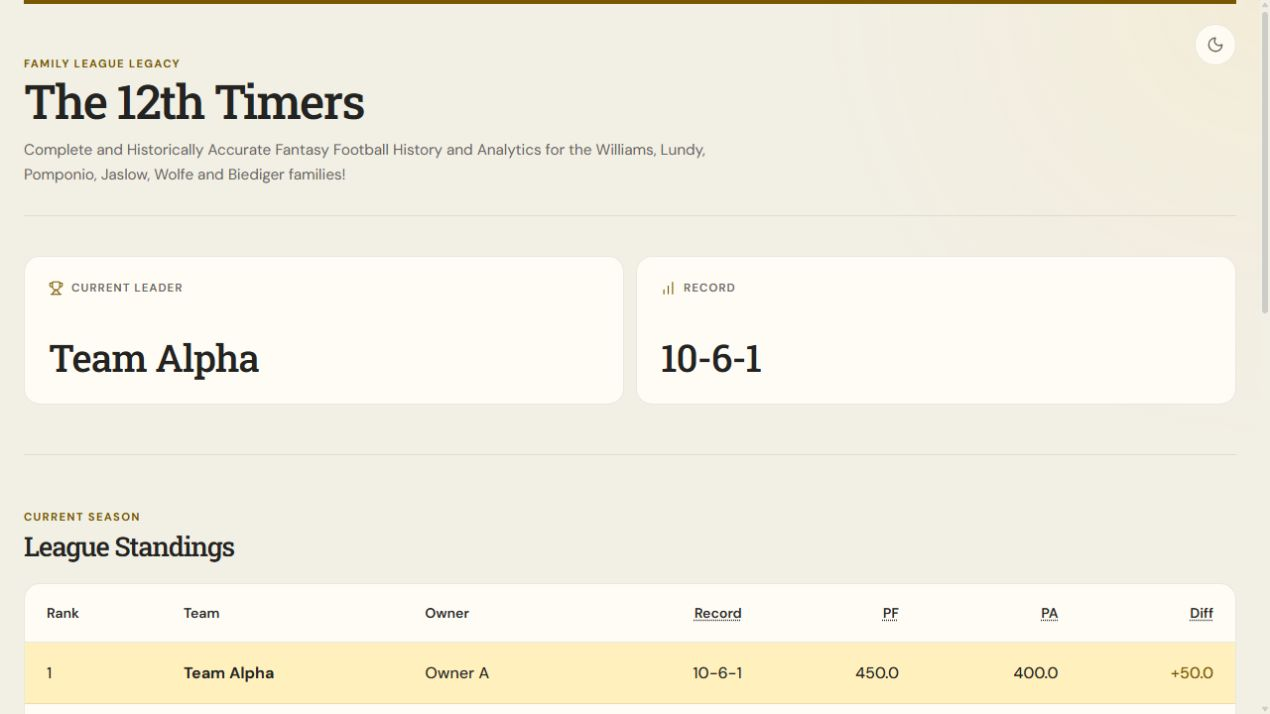
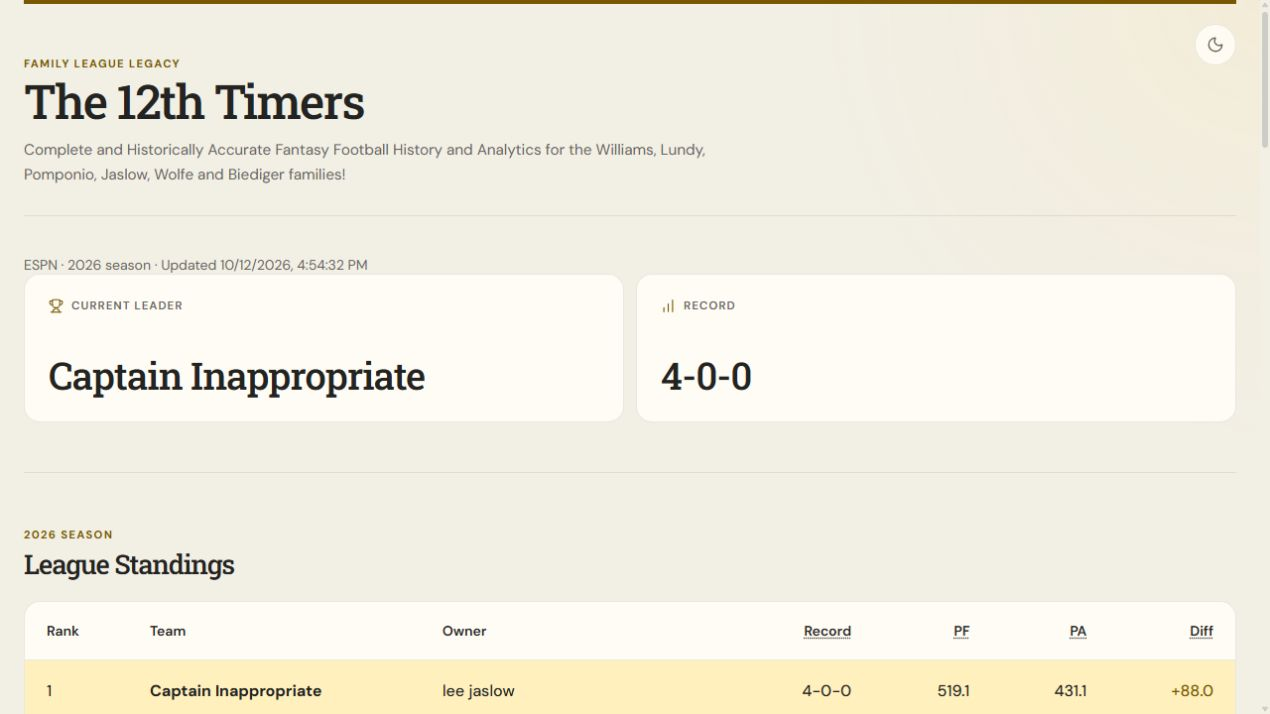
Updated case studies, ESPN details, branding and headline, also verified contact-form delivery

diff --git a/index.html b/index.html
@@ -3,8 +3,25 @@
 <head>
   <meta charset="UTF-8">
   <meta name="viewport" content="width=device-width, initial-scale=1">
-  <meta name="description" content="Matt Williams — senior software engineer with a design background, building thoughtful interfaces and dependable full-stack applications.">
-  <title>MJW | Senior Software Engineer</title>
+  <meta name="description" content="Senior software engineer with 7+ years of experience building Angular and TypeScript interfaces, Java services, and React applications. Thoughtful design. Dependable engineering.">
+  <title>Matt Williams | Senior Software Engineer</title>
+  <link rel="canonical" href="https://mattwills09.github.io/">
+  <meta property="og:type" content="website">
+  <meta property="og:site_name" content="Matt Williams — Software Engineer">
+  <meta property="og:title" content="Matt Williams | Senior Software Engineer">
+  <meta property="og:description" content="Senior software engineer with 7+ years of experience building Angular and TypeScript interfaces, Java services, and React applications. Thoughtful design. Dependable engineering.">
+  <meta property="og:url" content="https://mattwills09.github.io/">
+  <meta property="og:image" content="https://mattwills09.github.io/assets/images/portfolio-social-card.png">
+  <meta property="og:image:type" content="image/png">
+  <meta property="og:image:width" content="1200">
+  <meta property="og:image:height" content="630">
+  <meta property="og:image:alt" content="Matt Williams. Thoughtful design. Dependable engineering. Senior Software Engineer.">
+  <meta name="twitter:card" content="summary_large_image">
+  <meta name="twitter:title" content="Matt Williams | Senior Software Engineer">
+  <meta name="twitter:description" content="Senior software engineer with 7+ years of experience building Angular and TypeScript interfaces, Java services, and React applications. Thoughtful design. Dependable engineering.">
+  <meta name="twitter:image" content="https://mattwills09.github.io/assets/images/portfolio-social-card.png">
+  <meta name="twitter:image:alt" content="Matt Williams. Thoughtful design. Dependable engineering. Senior Software Engineer.">
+  <meta name="theme-color" content="#101c20">
   <link rel="icon" type="image/svg+xml" href="assets/images/monogram.svg">
   <link rel="stylesheet" href="assets/css/style.css">
   <script src="assets/js/script.js" defer></script>
@@ -25,12 +42,12 @@
     <section class="hero">
       <div class="hero-copy">
         <p class="eyebrow">Senior Software Engineer · Design background</p>
-        <h1>Thoughtful interfaces.<br><em>Dependable software.</em></h1>
-        <p class="intro">Senior Software Engineering with 7+ years of production experience, deep Angular and TypeScript expertise, and a background in design. Turning complex or loosely defined requirements into intuitive interfaces and end-to-end solutions, with current React development deployed on Vercel.</p>
+        <h1>Thoughtful design.<br><em>Dependable engineering.</em></h1>
+        <p class="intro">Senior software engineer with 7+ years of production experience, deep Angular and TypeScript expertise, and a background in design. Turning complex or loosely defined requirements into intuitive interfaces and end-to-end solutions, with current React and server-side API development deployed on Vercel.</p>
         <div class="actions"><a class="button" href="portfolio.html">Explore selected work <span aria-hidden="true">↗</span></a><a class="button button-secondary" href="assets/documents/Matthew_Williams_FullStack_Resume.pdf" download>Download résumé <span aria-hidden="true">↓</span></a><a class="text-link" href="contact.html">Let's connect</a></div>
         <aside id="hood-interface" class="hood-note" hidden><h2>Interface decisions</h2><p>Serif headings add character; sans-serif text keeps longer passages readable. Shared color tokens keep the palette consistent. The wallpaper is a decorative CSS layer, so it stays separate from content and controls. Its movement is disabled for reduced-motion preferences and touch-first devices.</p></aside>
       </div>
-      <figure class="portrait"><img src="assets/images/matthew-williams-headshot.png" alt="Matthew Williams" width="1122" height="1402"><figcaption>Engineering with a design perspective.</figcaption></figure>
+      <figure class="portrait"><img src="assets/images/matt-williams-headshot-800.webp" srcset="assets/images/matt-williams-headshot-400.webp 400w, assets/images/matt-williams-headshot-800.webp 800w" sizes="(max-width: 600px) 230px, (max-width: 900px) 30vw, 360px" fetchpriority="high" decoding="async" alt="Matt Williams" width="1122" height="1402"><figcaption>Engineering with a design perspective.</figcaption></figure>
     </section>
     <section class="section testimonial" aria-label="Professional recommendation">
       <p class="eyebrow">A perspective from the team</p>
@@ -40,7 +57,7 @@
     <section class="section" aria-labelledby="experience-title">
       <div class="section-heading"><p class="eyebrow">Experience &amp; independent development</p><h2 id="experience-title">From interface to production.</h2></div>
       <div class="experience-grid">
-        <div><h3>Safely · Software Engineer</h3><p class="experience-period">January 2023 – August 2026 · Remote</p><p>Built customer- and internal-facing Angular/TypeScript applications, expanding from frontend UI/UX into full-stack engineering. Delivered APIs, integrations, and event-driven Java 17/Spring Boot services with Kafka, SQL, and MongoDB.</p><p>Designed and engineered a standalone travel insurance SDK and demo booking application integrated with Safely's external APIs. Production work also included CircleCI, Kubernetes, and ArgoCD delivery, plus troubleshooting across application and infrastructure layers with Grafana and Loki.</p><h3 class="independent-experience">EMS Merchant Services · Software Developer</h3><p class="experience-period">September 2019 – January 2023</p><p>Built and maintained Angular/TypeScript point-of-sale applications and a merchant portal supporting 300–400 client locations. Work spanned inventory and operational management, Azure/.NET and MySQL integrations, testing, and ongoing production support.</p><h3 class="independent-experience">React development with Family League Legacy</h3><p>A current independent project built with React, TypeScript, and Vite, deployed on Vercel. Work includes typed league models, derived statistics, accessible interactions, and responsive light and dark themes.</p><p>Supabase and PostgreSQL are planned for league-data persistence in a future milestone.</p><p class="private-note">Professional source code lives in private company repositories. The public Safely demo and independent projects offer examples to explore.</p></div>
+        <div><h3>Safely · Software Engineer</h3><p class="experience-period">January 2023 – August 2026 · Remote</p><p>Built customer- and internal-facing Angular/TypeScript applications, expanding from frontend UI/UX into full-stack engineering. Delivered APIs, integrations, and event-driven Java 17/Spring Boot services with Kafka, SQL, and MongoDB.</p><p>Designed and engineered a standalone travel insurance SDK and demo booking application integrated with Safely's external APIs. Production work also included CircleCI, Kubernetes, and ArgoCD delivery, plus troubleshooting across application and infrastructure layers with Grafana and Loki.</p><h3 class="independent-experience">EMS Merchant Services · Software Developer</h3><p class="experience-period">September 2019 – January 2023</p><p>Built and maintained Angular/TypeScript point-of-sale applications and a merchant portal supporting 300–400 client locations. Work spanned inventory and operational management, Azure/.NET and MySQL integrations, testing, and ongoing production support.</p><h3 class="independent-experience">React development with Family League Legacy</h3><p>A current independent project built with React, TypeScript, and Vite, deployed on Vercel. Connects a live ESPN league through a server-side adapter that keeps credentials private. Includes typed league models, sortable standings, automated API and sorting tests, and responsive light and dark themes.</p><p>Supabase and PostgreSQL are planned for league-data persistence in a future milestone.</p><p class="private-note">Professional source code lives in private company repositories. The public Safely demo and independent projects offer examples to explore.</p></div>
         <div class="capabilities">
           <div><span class="eyebrow">Frontend</span><p>Angular · Angular Material · TypeScript · JavaScript<br>React · HTML/CSS · Bootstrap</p></div>
           <div><span class="eyebrow">Backend &amp; data</span><p>Java · Spring Boot · REST APIs · Kafka<br>Node.js · Express · SQL · MySQL · MongoDB · Azure/.NET</p></div>
@@ -55,13 +72,13 @@
       <div class="section-heading heading-row"><div><p class="eyebrow">Selected work</p><h2 id="selected-title">Something you can explore.</h2></div><a class="text-link" href="portfolio.html">View project details <span aria-hidden="true">↗</span></a></div>
       <div class="project-grid">
         <article class="project-card"><p class="eyebrow">Professional work · Public demo</p><h3>Safely SDK demo</h3><figure class="project-preview"><div class="preview-chrome" aria-hidden="true"><span class="preview-dots">● ● ●</span><span>demo.safely.com/be</span></div><img src="assets/images/safely-demo-preview.jpg" alt="Screenshot of Safely booking demo" width="1280" height="720" loading="lazy"><figcaption>Live-site capture · October 2026</figcaption></figure><p>A public booking demo featuring an embedded travel insurance SDK widget, from professional work at Safely.</p><p class="stack">Embedded SDK · Travel insurance</p><a class="text-link" href="https://demo.safely.com/be/" target="_blank" rel="noopener noreferrer" aria-describedby="external-link-note">Explore the demo <span aria-hidden="true">↗</span></a></article>
-        <article class="project-card"><p class="eyebrow">Personal project · In development</p><h3>Family League Legacy</h3><figure class="project-preview"><div class="preview-chrome" aria-hidden="true"><span class="preview-dots">● ● ●</span><span>family-league-legacy.vercel.app</span></div><img src="assets/images/family-league-preview.jpg" alt="Screenshot of Family League Legacy standings dashboard" width="1280" height="720" loading="lazy"><figcaption>Live-site capture · October 2026</figcaption></figure><p>A fantasy football dashboard bringing standings, team records, and league achievements into one responsive interface.</p><p class="stack">React · TypeScript · Vite · Vercel</p><a class="text-link" href="https://family-league-legacy.vercel.app/" target="_blank" rel="noopener noreferrer" aria-describedby="external-link-note">Explore the app <span aria-hidden="true">↗</span></a></article>
+        <article class="project-card"><p class="eyebrow">Personal project · In development</p><h3>Family League Legacy</h3><figure class="project-preview"><div class="preview-chrome" aria-hidden="true"><span class="preview-dots">● ● ●</span><span>family-league-legacy.vercel.app</span></div><img src="assets/images/family-league-preview.jpg" alt="Screenshot of Family League Legacy standings dashboard" width="1280" height="720" loading="lazy"><figcaption>Live-site capture · October 2026</figcaption></figure><p>A fantasy football dashboard with live ESPN standings, sortable team records, and a server-side API that keeps league credentials private.</p><p class="stack">React · TypeScript · Node.js · Vercel Functions</p><a class="text-link" href="https://family-league-legacy.vercel.app/" target="_blank" rel="noopener noreferrer" aria-describedby="external-link-note">Explore the app <span aria-hidden="true">↗</span></a></article>
       </div>
     </section>
     <aside id="hood-projects" class="hood-note" hidden><h2>A small site, deliberately</h2><p>This portfolio uses HTML, CSS, and a small JavaScript enhancement layer. Navigation and project content work without JavaScript. External links open separately; older projects remain in an archive. Family League Legacy is the React/TypeScript example, with derived statistics and reusable components.</p></aside>
     <section class="section closing"><h2>Good software starts with understanding.</h2><p>A B.A. in Multimedia Design from Duquesne University and full-stack development training at the University of Pennsylvania complement practical engineering experience. The result: attention to usability, clear communication, and thoughtful implementation.</p><a class="text-link" href="contact.html">Get in touch <span aria-hidden="true">↗</span></a></section></main>
   <span id="external-link-note" class="sr-only">Opens in a new tab</span>
-  <footer class="site-footer"><div><span>&copy; <span data-year>2026</span> Matthew Williams</span><p class="footer-signoff">Built with care.. and a few strong opinions about spacing ;)</p></div><a href="https://github.com/mattwills09" target="_blank" rel="noopener noreferrer" aria-describedby="external-link-note">GitHub <span aria-hidden="true">↗</span></a></footer>
+  <footer class="site-footer"><div><span>&copy; <span data-year>2026</span> Matt Williams</span><p class="footer-signoff">Built with care.. and a few strong opinions about spacing ;)</p></div><a href="https://github.com/mattwills09" target="_blank" rel="noopener noreferrer" aria-describedby="external-link-note">GitHub <span aria-hidden="true">↗</span></a></footer>
 
   <dialog id="command-palette" class="command-palette" aria-labelledby="command-title">
     <div class="command-heading"><h2 id="command-title">Jump to…</h2><button type="button" class="command-close" aria-label="Close command palette">Esc</button></div>

diff --git a/portfolio.html b/portfolio.html
@@ -3,8 +3,25 @@
 <head>
   <meta charset="UTF-8">
   <meta name="viewport" content="width=device-width, initial-scale=1">
-  <meta name="description" content="Matt Williams — senior software engineer with a design background, building thoughtful interfaces and dependable full-stack applications.">
-  <title>Selected work | Matt Williams</title>
+  <meta name="description" content="Explore Matt Williams’s Safely SDK work and Family League Legacy: React, TypeScript, server-side ESPN integration, and engineering decisions.">
+  <title>Selected Work | Matt Williams</title>
+  <link rel="canonical" href="https://mattwills09.github.io/portfolio.html">
+  <meta property="og:type" content="website">
+  <meta property="og:site_name" content="Matt Williams — Software Engineer">
+  <meta property="og:title" content="Selected Work | Matt Williams">
+  <meta property="og:description" content="Explore Matt Williams’s Safely SDK work and Family League Legacy: React, TypeScript, server-side ESPN integration, and engineering decisions.">
+  <meta property="og:url" content="https://mattwills09.github.io/portfolio.html">
+  <meta property="og:image" content="https://mattwills09.github.io/assets/images/portfolio-social-card.png">
+  <meta property="og:image:type" content="image/png">
+  <meta property="og:image:width" content="1200">
+  <meta property="og:image:height" content="630">
+  <meta property="og:image:alt" content="Matt Williams. Thoughtful design. Dependable engineering. Senior Software Engineer.">
+  <meta name="twitter:card" content="summary_large_image">
+  <meta name="twitter:title" content="Selected Work | Matt Williams">
+  <meta name="twitter:description" content="Explore Matt Williams’s Safely SDK work and Family League Legacy: React, TypeScript, server-side ESPN integration, and engineering decisions.">
+  <meta name="twitter:image" content="https://mattwills09.github.io/assets/images/portfolio-social-card.png">
+  <meta name="twitter:image:alt" content="Matt Williams. Thoughtful design. Dependable engineering. Senior Software Engineer.">
+  <meta name="theme-color" content="#101c20">
   <link rel="icon" type="image/svg+xml" href="assets/images/monogram.svg">
   <link rel="stylesheet" href="assets/css/style.css">
   <script src="assets/js/script.js" defer></script>
@@ -18,8 +35,8 @@
 <a href="contact.html">Contact</a><button class="command-trigger" type="button" aria-haspopup="dialog" aria-controls="command-palette" hidden>Jump to <kbd>/</kbd></button></nav>
   </header>
   <main id="main">    <section class="page-intro"><p class="eyebrow">Selected work</p><h1>Products, projects,<br><em>and the thinking behind them.</em></h1><p class="intro">Professional work and personal development, with context about what each example demonstrates.</p></section>
-    <article class="case-study"><div class="case-heading"><p class="eyebrow">Professional work · Public demo</p><h2>Safely SDK demo</h2><figure class="project-preview"><div class="preview-chrome" aria-hidden="true"><span class="preview-dots">● ● ●</span><span>demo.safely.com/be</span></div><img src="assets/images/safely-demo-preview.jpg" alt="Screenshot of Safely booking demo" width="1280" height="720" loading="lazy"><figcaption>Live-site capture · October 2026</figcaption></figure><p class="stack">Embedded SDK · Travel insurance</p></div><div><p>Designed and engineered a standalone travel insurance SDK and demo booking application, connecting an embedded TypeScript experience with Safely's external APIs. The public demo provides a way to explore the product; its source code remains private.</p><h3>What to explore</h3><p>How a travel insurance experience fits into a host booking interface. The engineering work brought together SDK design, API integration, and end-to-end TypeScript implementation. Broader responsibilities across Angular applications, Java/Spring Boot services, and production delivery are summarized on the About page.</p><div class="actions"><a class="button" href="https://demo.safely.com/be/" target="_blank" rel="noopener noreferrer" aria-describedby="external-link-note">View public demo <span aria-hidden="true">↗</span></a></div></div></article>
-    <article class="case-study"><div class="case-heading"><p class="eyebrow">Personal project · In development</p><h2>Family League Legacy</h2><figure class="project-preview"><div class="preview-chrome" aria-hidden="true"><span class="preview-dots">● ● ●</span><span>family-league-legacy.vercel.app</span></div><img src="assets/images/family-league-preview.jpg" alt="Screenshot of Family League Legacy standings dashboard" width="1280" height="720" loading="lazy"><figcaption>Live-site capture · October 2026</figcaption></figure><p class="stack">React · TypeScript · Vite · Vercel · Custom CSS</p></div><div><p>A dedicated home for a long-running fantasy football league's standings and achievements. The current milestone uses typed sample data and is deployed on Vercel.</p><h3>Engineering decisions</h3><ul class="decision-list"><li>Reusable statistic cards and explicit TypeScript models keep presentation separate from league data.</li><li>Standings and win percentages are derived from records, including ties.</li><li>Theme tokens support persistent light and dark modes, with responsive tables and keyboard-accessible team details.</li><li>League branding is separated from shared presentation to support future reuse.</li></ul><p class="private-note">Historical data, dedicated navigation, and backend persistence with Supabase/PostgreSQL are planned future milestones.</p><div class="actions"><a class="button" href="https://family-league-legacy.vercel.app/" target="_blank" rel="noopener noreferrer" aria-describedby="external-link-note">View live app <span aria-hidden="true">↗</span></a><a class="text-link" href="https://github.com/mattwills09/family-league-legacy" target="_blank" rel="noopener noreferrer" aria-describedby="external-link-note">View source <span aria-hidden="true">↗</span></a></div></div></article>
+    <article class="case-study"><div class="case-heading"><p class="eyebrow">Professional work · Public demo</p><h2>Safely SDK demo</h2><figure class="project-preview"><div class="preview-chrome" aria-hidden="true"><span class="preview-dots">● ● ●</span><span>demo.safely.com/be</span></div><img src="assets/images/safely-demo-preview.jpg" alt="Screenshot of Safely booking demo" width="1280" height="720" loading="lazy"><figcaption>Live-site capture · October 2026</figcaption></figure><p class="stack">Embedded SDK · Travel insurance</p></div><div><h3>The problem</h3><p>Travel insurance needed to fit into a host booking experience while connecting to Safely’s external APIs.</p><h3>The contribution</h3><p>Designed and engineered a standalone TypeScript SDK and demo booking application, bringing together the embedded interface, API integration, and end-to-end implementation.</p><h3>The result</h3><p>A public demo provides a concrete example of the booking experience and integration work. Production source code remains private; broader Angular and Java/Spring Boot responsibilities are covered on the About page.</p><div class="actions"><a class="button" href="https://demo.safely.com/be/" target="_blank" rel="noopener noreferrer" aria-describedby="external-link-note">View public demo <span aria-hidden="true">↗</span></a></div></div></article>
+    <article class="case-study"><div class="case-heading"><p class="eyebrow">Personal project · In development</p><h2>Family League Legacy</h2><figure class="project-preview"><div class="preview-chrome" aria-hidden="true"><span class="preview-dots">● ● ●</span><span>family-league-legacy.vercel.app</span></div><img src="assets/images/family-league-preview.jpg" alt="Screenshot of Family League Legacy standings dashboard" width="1280" height="720" loading="lazy"><figcaption>Live-site capture · October 2026</figcaption></figure><p class="stack">React · TypeScript · Node.js · Vercel Functions · ESPN API</p></div><div><h3>The problem</h3><p>A long-running family fantasy league needed a focused view of current standings and a foundation for preserving its history.</p><h3>The contribution</h3><p>Built a React/TypeScript dashboard and a Node.js API on Vercel that fetches ESPN data, validates it, and normalizes it into typed league models. Authentication cookies stay on the server.</p><h3>The result</h3><p>A deployed dashboard connected to a 12-team ESPN league, with sortable standings, wins-losses-ties records, scoring statistics, and accessible team details.</p><ul class="decision-list"><li>Table sorting preserves official rank and the current leader.</li><li>Loading, retry, and a clearly labeled sample fallback handle unavailable upstream data.</li><li>Automated tests cover API normalization, safe errors, and standings sorting.</li></ul><p class="private-note">Historical achievements are shown as unavailable until verified history is connected. Dedicated navigation and Supabase/PostgreSQL persistence remain planned.</p><div class="actions"><a class="button" href="https://family-league-legacy.vercel.app/" target="_blank" rel="noopener noreferrer" aria-describedby="external-link-note">View live app <span aria-hidden="true">↗</span></a><a class="text-link" href="https://github.com/mattwills09/family-league-legacy" target="_blank" rel="noopener noreferrer" aria-describedby="external-link-note">View source <span aria-hidden="true">↗</span></a></div></div></article>
     <section class="section closing" aria-labelledby="resume-title"><p class="eyebrow">Experience &amp; qualifications</p><h2 id="resume-title">The full picture.</h2><p>Explore the résumé for professional experience, technical skills, and education.</p><div class="actions"><a class="button" href="assets/documents/Matthew_Williams_FullStack_Resume.pdf" target="_blank" rel="noopener noreferrer" aria-describedby="external-link-note">View résumé <span aria-hidden="true">↗</span></a><a class="button button-secondary" href="assets/documents/Matthew_Williams_FullStack_Resume.pdf" download>Download PDF <span aria-hidden="true">↓</span></a></div></section>
     <section class="section closing"><p class="eyebrow">Earlier work</p><h2>The foundations are still here.</h2><p>Earlier projects exploring JavaScript, React, Node.js, databases, and APIs are preserved in the archive.</p><a class="text-link" href="portfolio-archive.html">Browse project archive <span aria-hidden="true">↗</span></a></section></main>
   <span id="external-link-note" class="sr-only">Opens in a new tab</span>

diff --git a/contact.html b/contact.html
@@ -3,8 +3,25 @@
 <head>
   <meta charset="UTF-8">
   <meta name="viewport" content="width=device-width, initial-scale=1">
-  <meta name="description" content="Matt Williams — senior software engineer with a design background, building thoughtful interfaces and dependable full-stack applications.">
+  <meta name="description" content="Contact Matt Williams about software engineering opportunities, explore professional experience, or download the full-stack résumé.">
   <title>Contact | Matt Williams</title>
+  <link rel="canonical" href="https://mattwills09.github.io/contact.html">
+  <meta property="og:type" content="website">
+  <meta property="og:site_name" content="Matt Williams — Software Engineer">
+  <meta property="og:title" content="Contact | Matt Williams">
+  <meta property="og:description" content="Contact Matt Williams about software engineering opportunities, explore professional experience, or download the full-stack résumé.">
+  <meta property="og:url" content="https://mattwills09.github.io/contact.html">
+  <meta property="og:image" content="https://mattwills09.github.io/assets/images/portfolio-social-card.png">
+  <meta property="og:image:type" content="image/png">
+  <meta property="og:image:width" content="1200">
+  <meta property="og:image:height" content="630">
+  <meta property="og:image:alt" content="Matt Williams. Thoughtful design. Dependable engineering. Senior Software Engineer.">
+  <meta name="twitter:card" content="summary_large_image">
+  <meta name="twitter:title" content="Contact | Matt Williams">
+  <meta name="twitter:description" content="Contact Matt Williams about software engineering opportunities, explore professional experience, or download the full-stack résumé.">
+  <meta name="twitter:image" content="https://mattwills09.github.io/assets/images/portfolio-social-card.png">
+  <meta name="twitter:image:alt" content="Matt Williams. Thoughtful design. Dependable engineering. Senior Software Engineer.">
+  <meta name="theme-color" content="#101c20">
   <link rel="icon" type="image/svg+xml" href="assets/images/monogram.svg">
   <link rel="stylesheet" href="assets/css/style.css">
   <script src="assets/js/script.js" defer></script>
@@ -35,7 +52,7 @@
     </div>
   </main>
   <span id="external-link-note" class="sr-only">Opens in a new tab</span>
-  <footer class="site-footer"><div><span>&copy; <span data-year>2026</span> Matthew Williams</span><p class="footer-signoff">Built with care.. and a few strong opinions about spacing ;)</p></div><a href="https://github.com/mattwills09" target="_blank" rel="noopener noreferrer" aria-describedby="external-link-note">GitHub <span aria-hidden="true">↗</span></a></footer>
+  <footer class="site-footer"><div><span>&copy; <span data-year>2026</span> Matt Williams</span><p class="footer-signoff">Built with care.. and a few strong opinions about spacing ;)</p></div><a href="https://github.com/mattwills09" target="_blank" rel="noopener noreferrer" aria-describedby="external-link-note">GitHub <span aria-hidden="true">↗</span></a></footer>
 
   <dialog id="command-palette" class="command-palette" aria-labelledby="command-title">
     <div class="command-heading"><h2 id="command-title">Jump to…</h2><button type="button" class="command-close" aria-label="Close command palette">Esc</button></div>

diff --git a/portfolio-archive.html b/portfolio-archive.html
@@ -3,8 +3,25 @@
 <head>
   <meta charset="UTF-8">
   <meta name="viewport" content="width=device-width, initial-scale=1">
-  <meta name="description" content="Matt Williams — senior software engineer with a design background, building thoughtful interfaces and dependable full-stack applications.">
-  <title>Project archive | Matt Williams</title>
+  <meta name="description" content="Earlier JavaScript, React, Node.js, and API projects from Matt Williams, preserved as a development archive.">
+  <title>Project Archive | Matt Williams</title>
+  <link rel="canonical" href="https://mattwills09.github.io/portfolio-archive.html">
+  <meta property="og:type" content="website">
+  <meta property="og:site_name" content="Matt Williams — Software Engineer">
+  <meta property="og:title" content="Project Archive | Matt Williams">
+  <meta property="og:description" content="Earlier JavaScript, React, Node.js, and API projects from Matt Williams, preserved as a development archive.">
+  <meta property="og:url" content="https://mattwills09.github.io/portfolio-archive.html">
+  <meta property="og:image" content="https://mattwills09.github.io/assets/images/portfolio-social-card.png">
+  <meta property="og:image:type" content="image/png">
+  <meta property="og:image:width" content="1200">
+  <meta property="og:image:height" content="630">
+  <meta property="og:image:alt" content="Matt Williams. Thoughtful design. Dependable engineering. Senior Software Engineer.">
+  <meta name="twitter:card" content="summary_large_image">
+  <meta name="twitter:title" content="Project Archive | Matt Williams">
+  <meta name="twitter:description" content="Earlier JavaScript, React, Node.js, and API projects from Matt Williams, preserved as a development archive.">
+  <meta name="twitter:image" content="https://mattwills09.github.io/assets/images/portfolio-social-card.png">
+  <meta name="twitter:image:alt" content="Matt Williams. Thoughtful design. Dependable engineering. Senior Software Engineer.">
+  <meta name="theme-color" content="#101c20">
   <link rel="icon" type="image/svg+xml" href="assets/images/monogram.svg">
   <link rel="stylesheet" href="assets/css/style.css">
   <script src="assets/js/script.js" defer></script>

diff --git a/docs/implementation-decisions.md b/docs/implementation-decisions.md
@@ -78,3 +78,13 @@
 - Host a public copy of the user-provided PDF at assets/documents/Matthew_Williams_FullStack_Resume.pdf, leaving the desktop original untouched.
 - Keep native download links in the homepage actions and contact introduction. Add a dedicated résumé section after the Work page case studies and before the project archive, with separate View résumé (new tab) and Download PDF actions. Keep the shared header focused on page navigation. All résumé links work without JavaScript.
 - Keep the filename stable so job applications can reference the same URL when the résumé is replaced. The public URL becomes available after publishing the repository changes.
+
+## Portfolio polish — October 28, 2026
+- Update active-page branding to Matt Williams, including remaining footers, homepage title, and headshot alt text. Apply the approved “Thoughtful design. Dependable engineering.” headline without renaming résumé files or editing their contents.
+- Rewrite featured work around problem, contribution, and result. Replace outdated sample-only league claims with the verified ESPN adapter, typed boundary, server-side credentials, sorting, and automated tests. Keep unimplemented history and persistence clearly identified; invent no business-impact metrics.
+- Generate responsive 400px/800px WebP encodings from the original portrait. Retain the PNG and existing CSS color treatment; add intrinsic dimensions, responsive source selection, and high fetch priority.
+- Add per-page canonical URLs, descriptions, Open Graph/large-card metadata, and a shared deterministic 1200×630 typographic preview matching the existing palette. Sharing changes require deployment and may be cached by external platforms.
+- Keep the native contact form and required fields. End-to-end delivery requires recipient confirmation; do not treat provider reachability or local validation as proof of inbox receipt.
+- Replace the sample-data league preview with the actual ESPN dashboard capture saved on October 12, 2026, retaining the static October capture caption.
+- Validation: JavaScript syntax, active-page local assets and links, canonical/social metadata, responsive image sources, desktop rendering, and native contact validation passed. Browser mobile viewport override could not be confirmed; responsive CSS is unchanged.
+- The owner activated FormSubmit and confirmed receipt of the test message on October 28, 2026. End-to-end email delivery is verified by recipient confirmation.

diff --git a/README.md b/README.md
@@ -1,4 +1,4 @@
-# Matthew Williams — Portfolio
+# Matt Williams — Portfolio
 
 A lightweight personal portfolio built with HTML, CSS, and JavaScript, hosted on GitHub Pages.
 
@@ -13,7 +13,15 @@ Shared presentation lives in assets/css/style.css. JavaScript enhances the foote
 Serve the repository with any local static web server to preview. See docs/implementation-decisions.md for the refresh rationale and remaining archive-link review.
 
 ## Contact form
-The quick-message form posts to FormSubmit for email forwarding. The recipient must submit once and confirm the activation email before delivery works. Gmail and Outlook web compose links are also available. No email credentials are stored in this repository.
+The quick-message form posts to FormSubmit for email forwarding. FormSubmit activation and inbox delivery were confirmed by the owner on October 28, 2026. Gmail and Outlook web compose links are also available. No email credentials are stored in this repository.
 
 ## Résumé
 The public PDF is assets/documents/Matthew_Williams_FullStack_Resume.pdf. Replace that file with an updated copy using the same filename to preserve application links. Download links appear on the homepage and contact page. A dedicated section on the Work page offers both viewing in a new tab and downloading the PDF.
+
+## Sharing and images
+Active pages include page-specific descriptions, canonical URLs, Open Graph and large-card metadata. The shared 1200×630 preview is assets/images/portfolio-social-card.png. These absolute URLs target the public GitHub Pages domain and become available after deployment; social platforms may cache previews.
+
+The homepage uses responsive 400px/800px WebP headshots. The original PNG remains unchanged as the source asset. Preserve the existing CSS warmth treatment when replacing the photo.
+
+## Verification
+This is a static site with no build step. Check shared JavaScript syntax, local page/asset links, responsive layout, résumé view/download links, and contact form validation before publishing. Actual contact email delivery also requires a recipient inbox check; passing HTML validation alone does not prove delivery.
